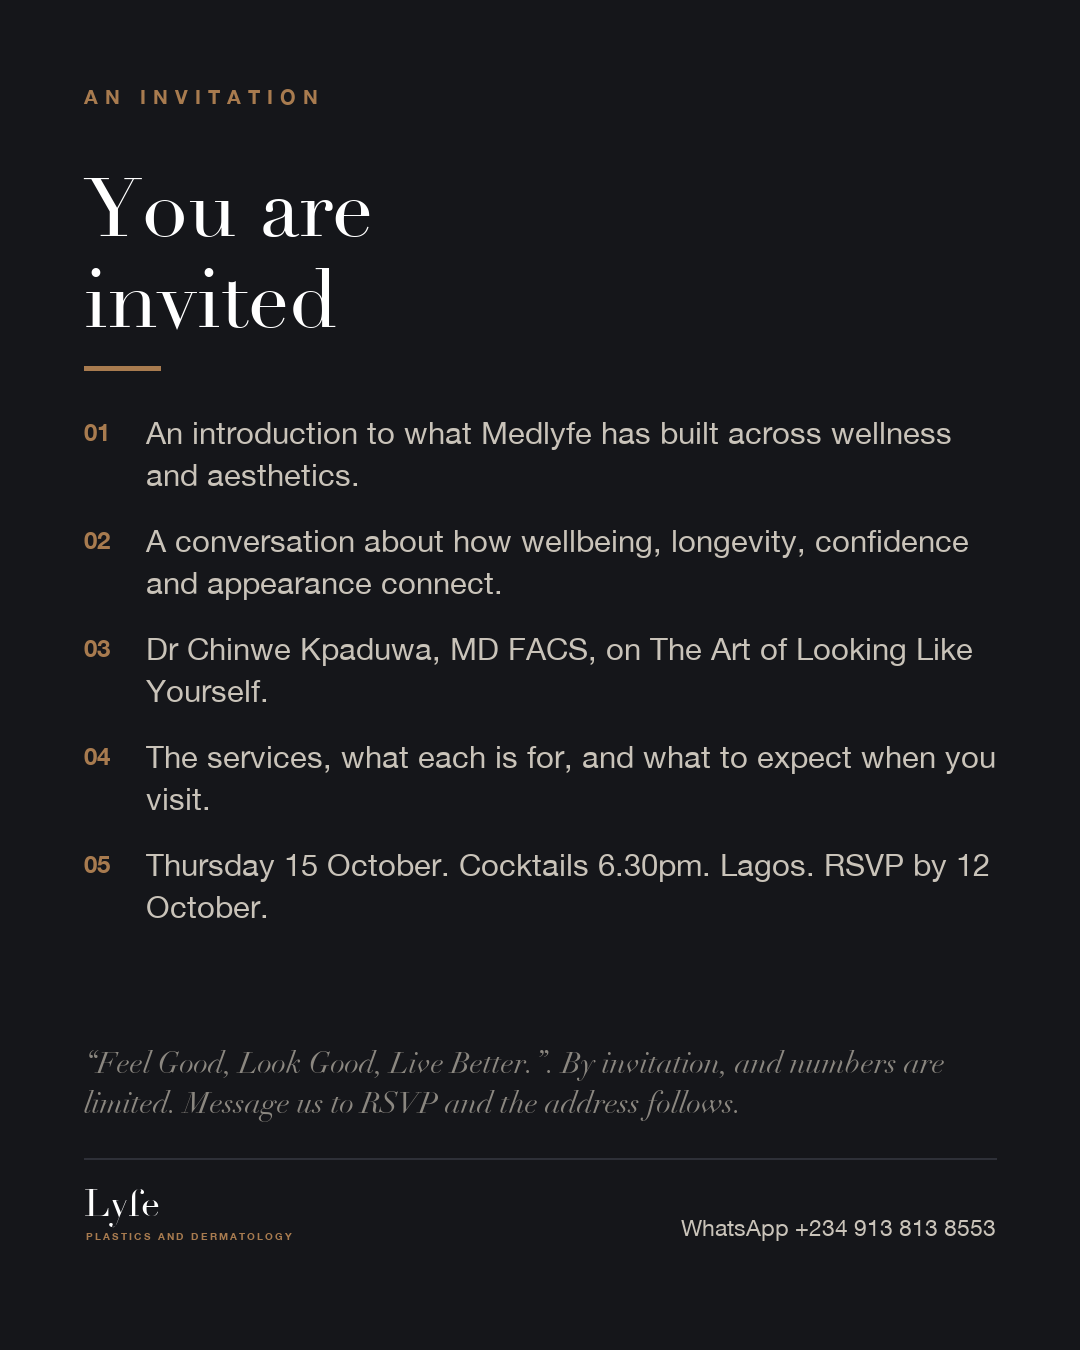
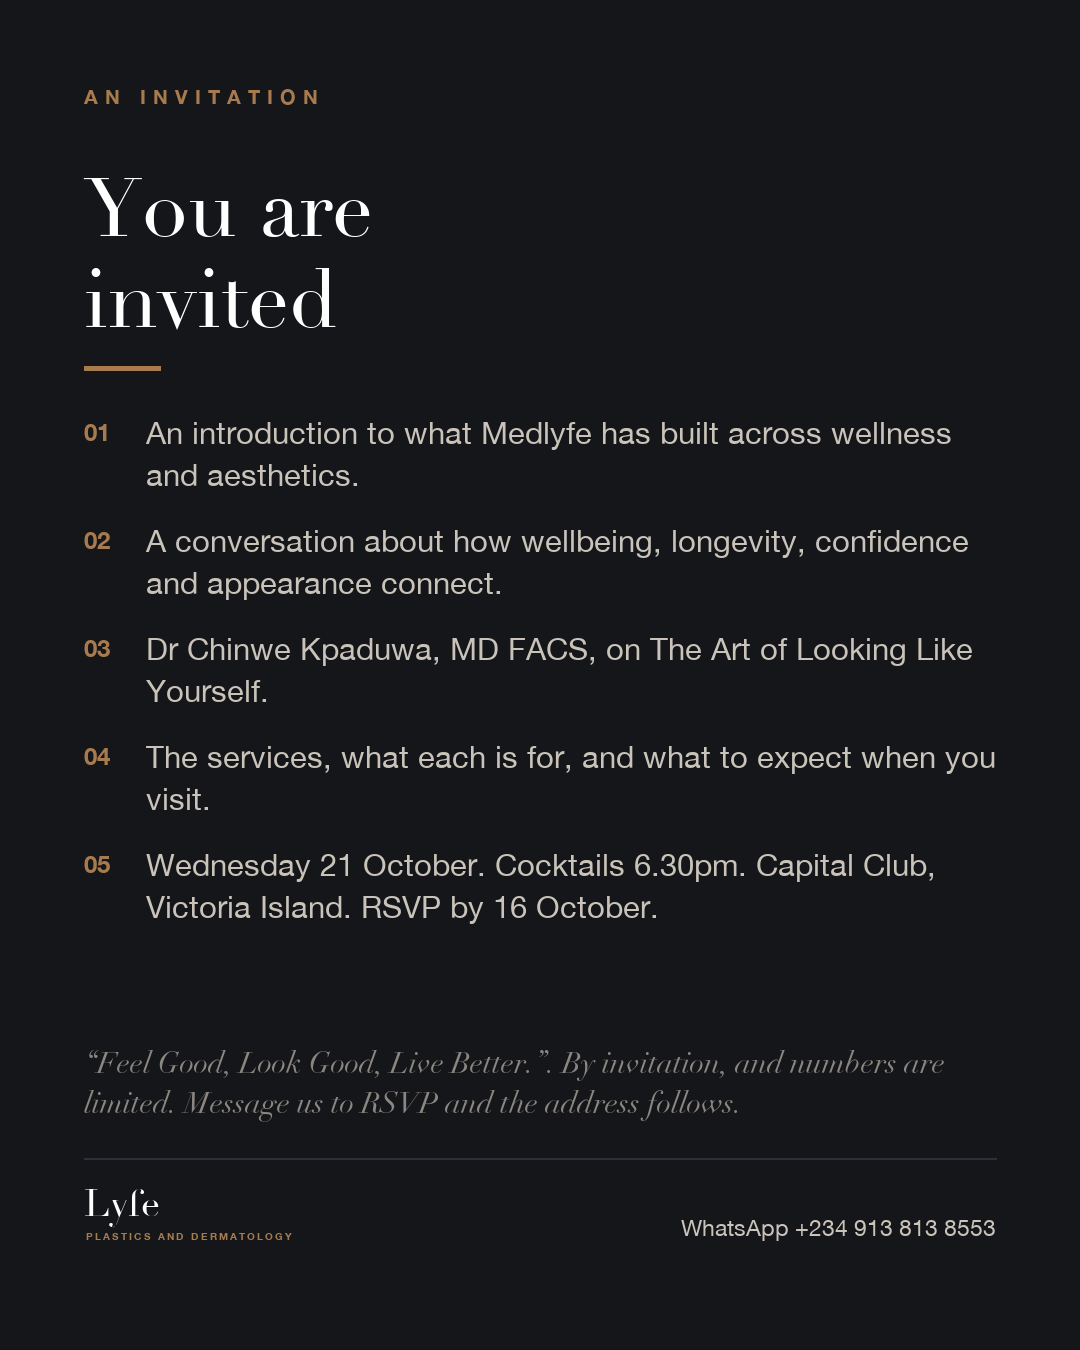
fix(lyfe): Capital Club, Wednesday 21 October, arrival 6pm
Date moved and the venue is booked. Capital Club on Victoria Island is also
the right room for this list: invitation-only, CEOs and chairs, and a
membership that overlaps the guest list we were going to build by hand.

RSVP deadline moved with the date to Friday 16 October, five clear working
days out, which is what chasing a curated 130-person room actually needs.
That one is my arithmetic rather than yours, so confirm it.

Changed region(s): [[0.1222, 0.6222, 0.9167, 0.6844]]

diff --git a/lib/lyfe.ts b/lib/lyfe.ts
@@ -135,16 +135,15 @@ export const LYFE_EVENT = {
   tagline: MEDLYFE_TAGLINE,
   panelTitle: "From Within, Outward",
   sessionTitle: "The Art of Looking Like Yourself",
-  date: process.env.NEXT_PUBLIC_LYFE_EVENT_DATE || "Thursday, 15 October 2026",
+  date: process.env.NEXT_PUBLIC_LYFE_EVENT_DATE || "Wednesday, 21 October 2026",
   arrival: "6:00 PM",
   programme: "6:45 PM",
   close: "9:30 PM",
-  // Venue is not settled. An invitation-led evening normally withholds the
-  // address until a guest is confirmed anyway, so this reads as intent rather
-  // than as a gap. Set NEXT_PUBLIC_LYFE_EVENT_VENUE the moment it is booked.
-  venueName: process.env.NEXT_PUBLIC_LYFE_EVENT_VENUE || "Lagos, address with your confirmation",
+  venueName: process.env.NEXT_PUBLIC_LYFE_EVENT_VENUE || "Capital Club, Victoria Island",
   venueAddress: process.env.NEXT_PUBLIC_LYFE_EVENT_ADDRESS || null,
-  rsvpBy: process.env.NEXT_PUBLIC_LYFE_RSVP_BY || "Monday, 12 October",
+  // Moved with the date. Five clear working days before, which is what a
+  // curated 130-person room needs to be chased properly. Confirm it.
+  rsvpBy: process.env.NEXT_PUBLIC_LYFE_RSVP_BY || "Friday, 16 October",
   /// Curated rather than conference scale. The number is in the brief, so the
   /// scarcity line on the page is a fact rather than a device.
   places: 130,

diff --git a/scripts/build-medlyfe-invite.py b/scripts/build-medlyfe-invite.py
@@ -81,12 +81,12 @@ STANDFIRST = "How modern science is changing the way we look, feel, perform and 
 SESSION = "The Art of Looking Like Yourself"
 BLURB = ("An evening exploring wellness, longevity, aesthetics and the connection "
          "between feeling well and looking like yourself.")
-DATE = "Thursday, 15 October 2026"
+DATE = "Wednesday, 21 October 2026"
 COCKTAILS = "6:00 PM"
 PROGRAMME = "6:45 PM"
 CLOSE = "9:30 PM"
-VENUE = "Lagos. The address follows your reply."
-RSVP_BY = "12 October"
+VENUE = "Capital Club, Victoria Island"
+RSVP_BY = "16 October"
 FOOTER = "MedLYFE introduces Lyfe Plastics & Dermatology."
 
 WHATSAPP = "2349138138553"

diff --git a/scripts/build-lyfe-creative.py b/scripts/build-lyfe-creative.py
@@ -95,10 +95,10 @@ CONSULT_FEE = None
 # The evening. Date and venue move, so they are arguments rather than copy.
 EVENT_NAME = "Medlyfe Wellness and Longevity Centre"
 EVENT_THEME = "Feel Good, Look Good, Live Better."
-EVENT_DATE = "Thursday 15 October"
+EVENT_DATE = "Wednesday 21 October"
 EVENT_TIME = "Cocktails 6.30pm"
-EVENT_DRESS = "RSVP by 12 October"
-EVENT_VENUE = "Lagos"
+EVENT_DRESS = "RSVP by 16 October"
+EVENT_VENUE = "Capital Club, Victoria Island"
 RSVP_MESSAGE = "Hello, I would like to RSVP to the evening."
 CALL_MESSAGE = "Hello, I would like to book a discovery call."
 

diff --git a/docs/ageless/ageless-panel-shortlist-cfa.md b/docs/ageless/ageless-panel-shortlist-cfa.md
@@ -1,0 +1,51 @@
+# Panel shortlist
+
+## AGELESS, Wednesday 21 October 2026
+
+Thirty candidates for four open seats on *From Within, Outward*, plus the chair.
+
+PREPARED FOR
+Dr Itunu Akinware and Dr Chinwe Kpaduwa
+
+BY
+Consult for Africa
+
+STATUS
+Working shortlist. Nobody has been approached.
+
+---
+
+## How to read this
+
+Four seats are open. Dr Chinwe Kpaduwa holds the fifth, the featured fireside, so the panel needs people who cover the inside half of the proposition and one person to hold the room.
+
+Candidates are grouped by seat and ordered by fit, not by fame. Each carries a flag where there is something you should know before anybody picks up the phone.
+
+| Flag | What it means |
+| --- | --- |
+| Clean | No conflict found. Approach freely. |
+| Competitor | Runs or fronts a practice that competes with Medlyfe or with Lyfe Plastics. |
+| CFA conflict | Already a CFA client or a live CFA prospect. Debo decides before contact. |
+| Unverified | Could not confirm they are currently in the role stated. Check before approaching. |
+| Handle with care | Public controversy, or a reason the room might react. |
+
+---
+
+## What each seat has to do
+
+| Seat | What it covers | Why it matters on the night |
+| --- | --- | --- |
+| Longevity and health optimisation | What actually changes in the body as we age, and what can be acted on early | The proposition fails without it. This is the seat that makes the evening about longevity rather than about aesthetics |
+| Metabolic health and hormones | Metabolism, weight, body composition, hormonal change, sleep, energy | The single subject this audience is living through and rarely gets a straight answer on |
+| Skin and regenerative medicine | Skin ageing and regeneration, and where aesthetic medicine genuinely helps | Bridges the inside and the outside, and keeps the aesthetic half clinical rather than commercial |
+| In the chair | Moderating the panel, the fireside and the questions | Decides whether it is a conversation or four presentations |
+
+---
+
+## The rule that governs who we ask
+
+Nobody is paid to bring us a patient, and nobody on this panel is there to sell. A moderator's honorarium is a different thing and is perfectly proper.
+
+The two highest-value seats are the ones that look least commercial: a teaching-hospital clinician and a chair the room already respects. A panel of practice owners reads as a trade show.
+
+---
